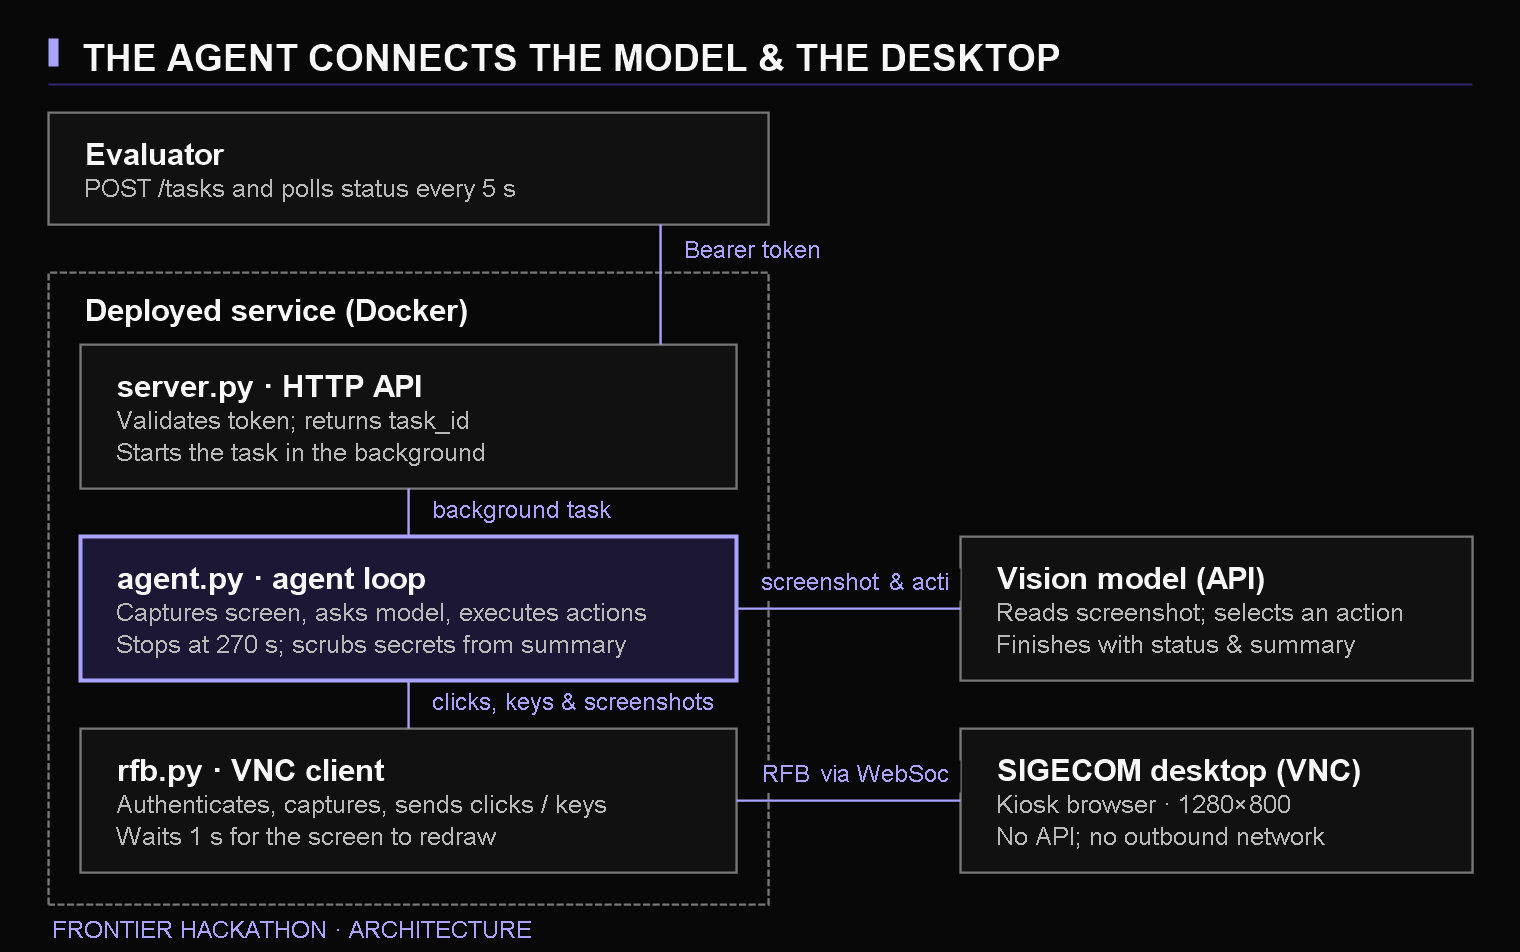
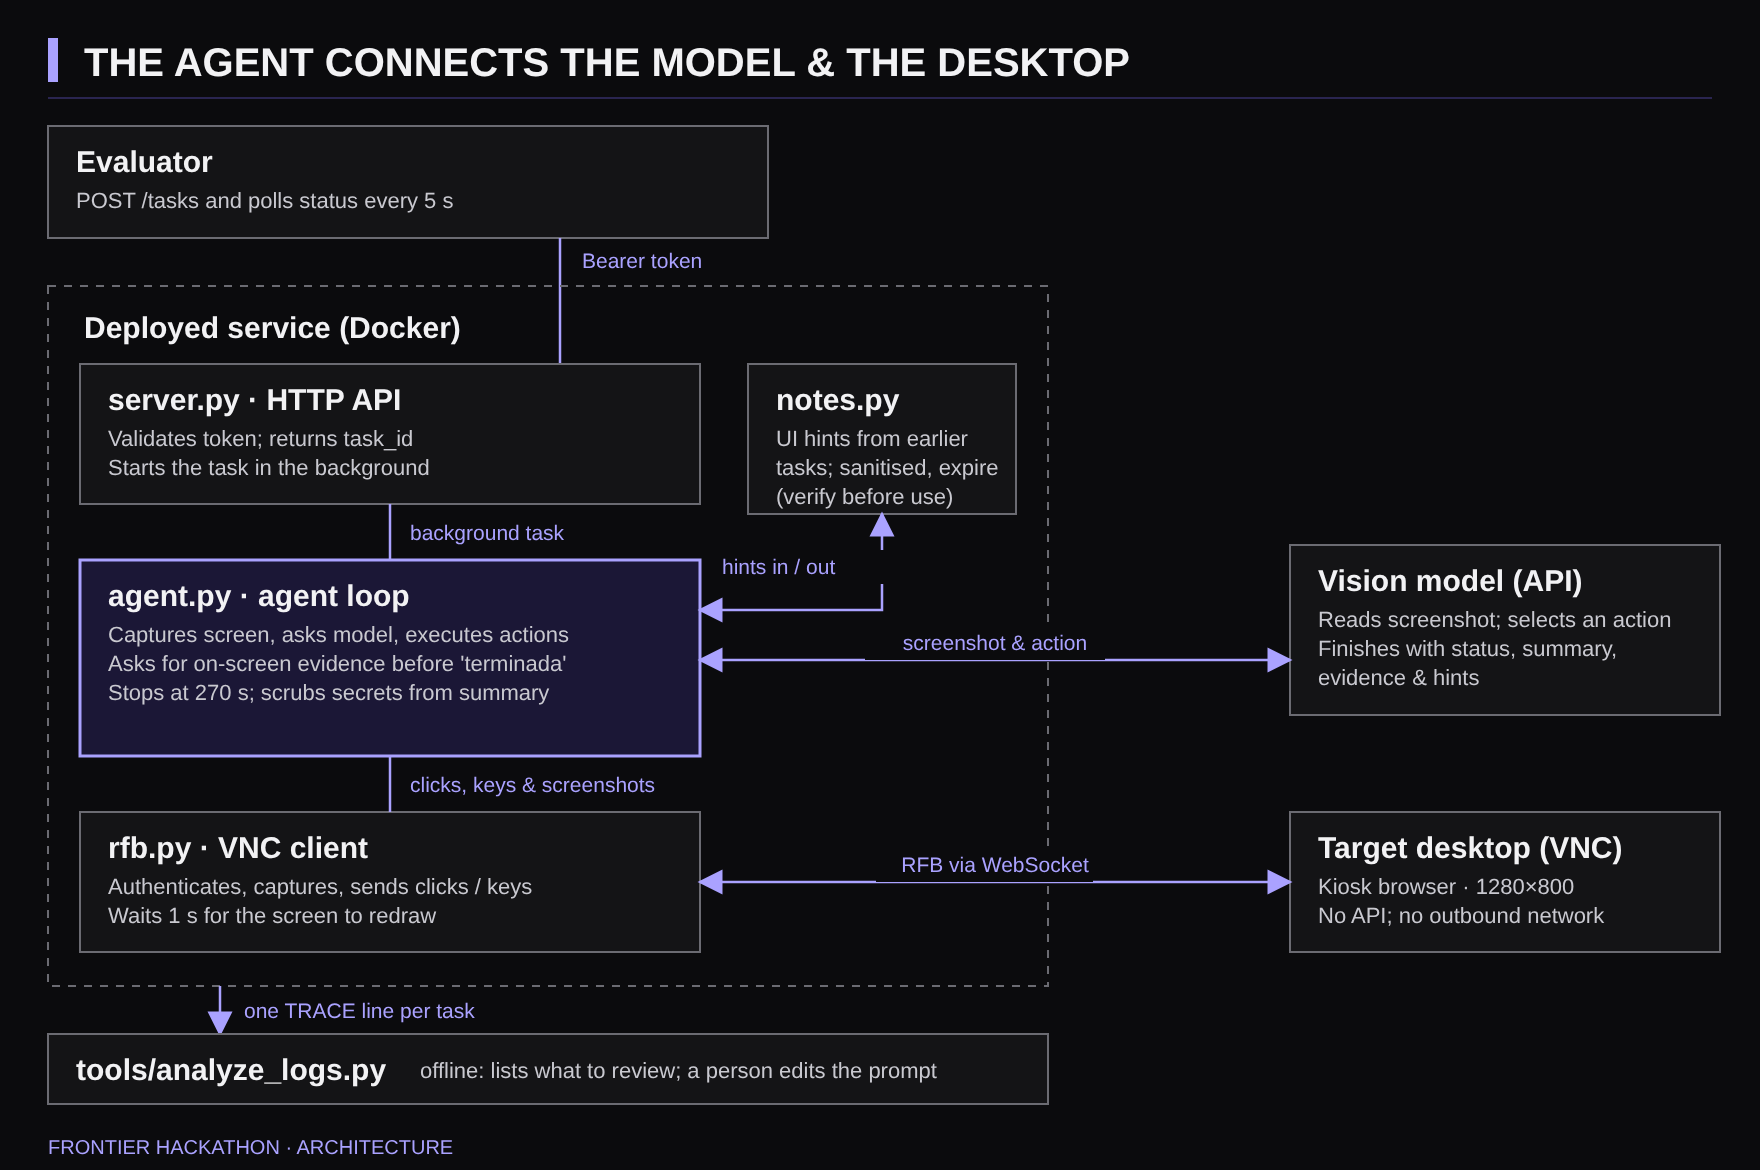
docs: actualizar diagrama de arquitectura (notes.py, evidencia, TRACE y analizador) [skip render]
Claude-Session: https://claude.ai/code/session_01GUSmD9eDmguE1ZnNm7orLW

Changed region(s): [[0.0, 0.0305, 0.9895, 1.0], [0.6493, 0.9139, 0.9586, 0.9443], [0.4638, 0.792, 0.6184, 0.8529]]

diff --git a/docs/DESIGN.md b/docs/DESIGN.md
@@ -22,7 +22,7 @@ We built an HTTP service whose agent operates an unseen legacy system through sc
 
 ## 2. Architecture and decisions
 
-The service has three modules. `server.py` validates the token and starts the task in the background. `agent.py` runs the loop: screenshot, model decision, actions, screenshot. `rfb.py` speaks VNC over the websocket. The model sees the screen and answers with actions in pixel coordinates; it never touches an app API.
+The service has three main modules and a small one. `server.py` validates the token and starts the task in the background. `agent.py` runs the loop: screenshot, model decision, actions, screenshot; before it reports a task that changed data as `terminada` it asks the model for on-screen evidence. `rfb.py` speaks VNC over the websocket. `notes.py` keeps short, sanitised interface hints from earlier successful tasks and hands them to later ones as unverified. Each task also prints one `TRACE` line to the logs, and `tools/analyze_logs.py` reads those logs offline so a person can decide what to change; it never edits the prompt. The model sees the screen and answers with actions in pixel coordinates; it never touches an app API.
 
 ![Architecture](arquitectura.png)
 

diff --git a/README.md b/README.md
@@ -15,7 +15,7 @@ An HTTP service whose agent operates an unseen management system the way a new e
 it looks at the screen and uses mouse and keyboard over VNC. It receives a task in natural
 language, works on it in the background and reports a final status and a summary.
 
-- Design document: [`docs/DESIGN.md`](docs/DESIGN.md)
+- Architecture diagram: [`docs/arquitectura.png`](docs/arquitectura.png) (editable source: `docs/arquitectura.svg`)
 - Architecture diagram: [`docs/arquitectura.png`](docs/arquitectura.png)
 
 ![Architecture](docs/arquitectura.png)
